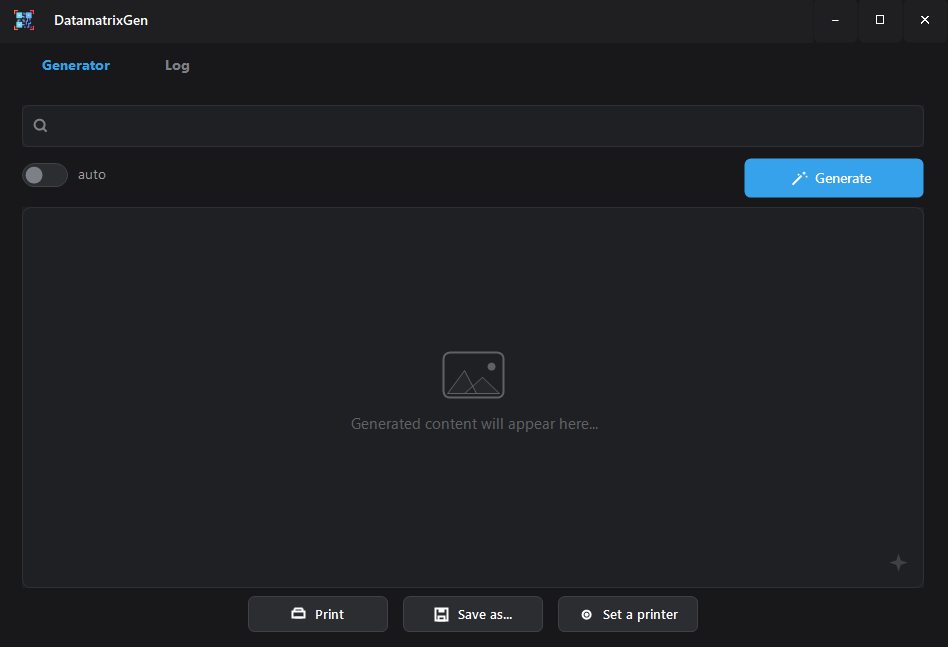
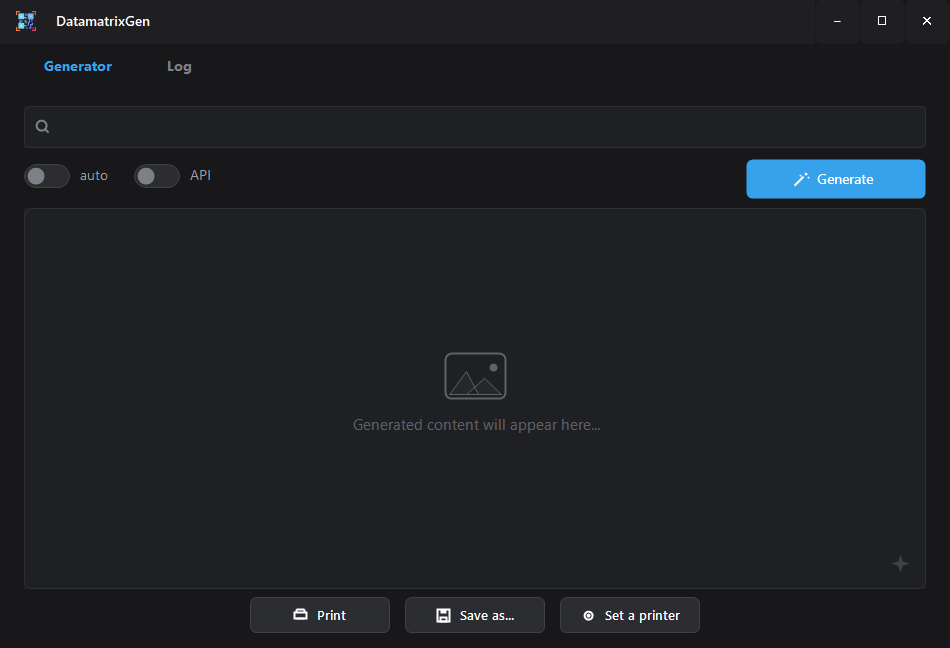
Add files via upload

diff --git a/app.cs b/app.cs
@@ -539,10 +539,60 @@ namespace DataMatrixGenerator
             this.BackColor = Color.FromArgb(0x0A, 0x0B, 0x0D);
             this.ForeColor = Color.FromArgb(0xD0, 0xD2, 0xD6);
             this.logs = new List<LogEntry>();
-            this.DrawMode = DrawMode.OwnerDrawFixed;
+            this.DrawMode = DrawMode.OwnerDrawVariable;
             this.ItemHeight = 24;
             this.BorderStyle = BorderStyle.None;
             this.IntegralHeight = false;
+            this.SelectionMode = SelectionMode.MultiExtended;
+            this.KeyDown += LogConsole_KeyDown;
+            this.MeasureItem += LogConsole_MeasureItem;
+        }
+
+        private void LogConsole_MeasureItem(object sender, MeasureItemEventArgs e)
+        {
+            if (e.Index < 0 || e.Index >= Items.Count) { e.ItemHeight = 24; return; }
+            LogEntry entry = Items[e.Index] as LogEntry;
+            if (entry == null) { e.ItemHeight = 24; return; }
+
+            using (Font font = new Font("Segoe UI Semibold", 10.5F))
+            using (Graphics g = CreateGraphics())
+            {
+                string ts = string.Format("[{0:yyyy-MM-dd HH:mm:ss.fff}] ", entry.Timestamp);
+                string lvl = string.Format("[{0}] ", entry.Level);
+                float tsW = g.MeasureString(ts, font).Width;
+                float lvlW = g.MeasureString(lvl, font).Width;
+                float maxW = Width - 16 - tsW - lvlW;
+                if (maxW < 50) maxW = 50;
+                SizeF sz = g.MeasureString(entry.Message, font, (int)maxW);
+                e.ItemHeight = Math.Max(24, (int)sz.Height + 4);
+            }
+        }
+
+        private void LogConsole_KeyDown(object sender, KeyEventArgs e)
+        {
+            if (e.Control && e.KeyCode == Keys.C)
+            {
+                var sb = new System.Text.StringBuilder();
+                foreach (int i in SelectedIndices)
+                {
+                    if (i >= 0 && i < Items.Count)
+                    {
+                        LogEntry entry = Items[i] as LogEntry;
+                        if (entry != null)
+                            sb.AppendFormat("[{0:yyyy-MM-dd HH:mm:ss.fff}] [{1}] {2}\r\n", entry.Timestamp, entry.Level, entry.Message);
+                    }
+                }
+                if (sb.Length > 0)
+                    Clipboard.SetText(sb.ToString().TrimEnd());
+                e.SuppressKeyPress = true;
+                e.Handled = true;
+            }
+            else if (e.Control && e.KeyCode == Keys.A)
+            {
+                for (int i = 0; i < Items.Count; i++) SetSelected(i, true);
+                e.SuppressKeyPress = true;
+                e.Handled = true;
+            }
         }
 
         public void ScrollToBottom()
@@ -590,7 +640,12 @@ namespace DataMatrixGenerator
                 using (Brush b = new SolidBrush(lvlColor))
                     g.DrawString(lvl, font, b, 8 + tsW, y);
                 using (Brush b = new SolidBrush(Color.FromArgb(0xD0, 0xD2, 0xD6)))
-                    g.DrawString(entry.Message, font, b, 8 + tsW + lvlW, y);
+                {
+                    float maxW = Width - 16 - tsW - lvlW;
+                    if (maxW < 50) maxW = 50;
+                    RectangleF rc = new RectangleF(8 + tsW + lvlW, y, maxW, e.Bounds.Height - 2);
+                    g.DrawString(entry.Message, font, b, rc);
+                }
             }
 
             e.DrawFocusRectangle();
@@ -617,6 +672,8 @@ namespace DataMatrixGenerator
         private CustomTextBox txtDataInput;
         private ToggleSwitch toggleAuto;
         private Label lblAuto;
+        private ToggleSwitch toggleApi;
+        private Label lblApi;
         private CustomButton btnGenerate;
         private PreviewPanel pbPreview;
         private CustomButton btnPrint;
@@ -636,6 +693,8 @@ namespace DataMatrixGenerator
         private int resizeDir;
         private Point resizeStart;
         private Rectangle formStart;
+        private string productName = "";
+        private Label lblProductInfo;
 
         public MainForm()
         {
@@ -941,6 +1000,14 @@ namespace DataMatrixGenerator
                 AutoSize = true
             };
 
+            toggleApi = new ToggleSwitch();
+            lblApi = new Label {
+                Text = "API",
+                ForeColor = Color.FromArgb(0x9E, 0x9E, 0x9E),
+                Font = new Font("Segoe UI", 10.5F),
+                AutoSize = true
+            };
+
             btnGenerate = new CustomButton {
                 Text = "Generate",
                 IconType = ButtonIconType.Wand,
@@ -950,6 +1017,15 @@ namespace DataMatrixGenerator
                 Font = new Font("Segoe UI Semibold", 10.5F)
             };
             btnGenerate.Click += (s, e) => ExecuteGeneration();
+
+            lblProductInfo = new Label {
+                Text = "",
+                ForeColor = Color.FromArgb(0x9E, 0x9E, 0x9E),
+                Font = new Font("Segoe UI", 9.5F, FontStyle.Bold),
+                AutoSize = true,
+                Visible = false
+            };
+            panelGenerate.Controls.Add(lblProductInfo);
 
             pbPreview = new PreviewPanel();
 
@@ -965,6 +1041,8 @@ namespace DataMatrixGenerator
             panelGenerate.Controls.Add(txtDataInput);
             panelGenerate.Controls.Add(toggleAuto);
             panelGenerate.Controls.Add(lblAuto);
+            panelGenerate.Controls.Add(toggleApi);
+            panelGenerate.Controls.Add(lblApi);
             panelGenerate.Controls.Add(btnGenerate);
             panelGenerate.Controls.Add(pbPreview);
             panelGenerate.Controls.Add(btnPrint);
@@ -1043,11 +1121,21 @@ namespace DataMatrixGenerator
             int rowY = 78;
             toggleAuto.Location = new Point(mx, rowY);
             lblAuto.Location = new Point(mx + 52, rowY + 1);
+            toggleApi.Location = new Point(mx + 110, rowY);
+            lblApi.Location = new Point(mx + 162, rowY + 1);
             btnGenerate.Location = new Point(cw - 180 + mx, rowY - 5);
             btnGenerate.Size = new Size(180, 40);
 
+            // Product info label
+            int infoY = rowY + 44;
+            if (lblProductInfo.Visible)
+            {
+                lblProductInfo.Location = new Point(mx, infoY);
+                infoY += lblProductInfo.Height + 4;
+            }
+
             // Preview
-            int previewY = rowY + 44;
+            int previewY = infoY;
             int footerH = 52;
             int previewH = contentH - previewY - footerH - 8;
             if (previewH < 100) previewH = 100;
@@ -1232,6 +1320,69 @@ namespace DataMatrixGenerator
             return input;
         }
 
+        private void FetchProductInfo(string data)
+        {
+            try
+            {
+                // Escape control characters for valid JSON  
+                string safeData = data.Replace("\\", "\\\\").Replace("\"", "\\\"")
+                    .Replace("\u001D", "\\u001d");
+                string jsonBody = "{\"code\":\"" + safeData + "\"}";
+                Log("INFO", "API request: " + jsonBody);
+
+                // Write JSON to temp file and call curl (most reliable)
+                string tmpFile = System.IO.Path.GetTempFileName();
+                System.IO.File.WriteAllText(tmpFile, jsonBody, System.Text.Encoding.UTF8);
+                var psi = new System.Diagnostics.ProcessStartInfo("curl.exe",
+                    "-s -X POST https://mobile.api.crpt.ru/mobile/check -H \"Content-Type: application/json\" -d @" + tmpFile);
+                psi.RedirectStandardOutput = true;
+                psi.UseShellExecute = false;
+                psi.CreateNoWindow = true;
+                psi.StandardOutputEncoding = System.Text.Encoding.UTF8;
+                var proc = System.Diagnostics.Process.Start(psi);
+                string response = proc.StandardOutput.ReadToEnd();
+                proc.WaitForExit(10000);
+                System.IO.File.Delete(tmpFile);
+
+                if (string.IsNullOrEmpty(response)) { Log("ERROR", "API: empty response"); return; }
+                Log("INFO", "API response: " + response);
+
+                // Extract productName from JSON (handles escaped quotes)
+                string search = "\"productName\":\"";
+                int idx = response.IndexOf(search);
+                if (idx >= 0)
+                {
+                    idx += search.Length;
+                    var sb = new System.Text.StringBuilder();
+                    while (idx < response.Length)
+                    {
+                        if (response[idx] == '\\' && idx + 1 < response.Length && response[idx + 1] == '"')
+                        {
+                            sb.Append('"');
+                            idx += 2;
+                        }
+                        else if (response[idx] == '"')
+                        {
+                            break;
+                        }
+                        else
+                        {
+                            sb.Append(response[idx]);
+                            idx++;
+                        }
+                    }
+                    productName = sb.ToString();
+                    lblProductInfo.Text = productName;
+                    lblProductInfo.Visible = true;
+                    PerformCustomLayout();
+                }
+            }
+            catch (Exception ex)
+            {
+                Log("ERROR", "API error: " + ex.Message);
+            }
+        }
+
         private void ExecuteGeneration()
         {
             string inputText = txtDataInput.Text.Trim();
@@ -1293,6 +1444,9 @@ namespace DataMatrixGenerator
 
                     Log("INFO", string.Format("Code: \"{0}\" | File: data\\{1}", inputText, last10 + ".png"));
 
+                    // Fetch product info from CRPT API (if enabled)
+                    if (toggleApi.Checked) FetchProductInfo(encodeData);
+
                     if (toggleAuto.Checked)
                     {
                         Log("INFO", "Auto-mode triggered printing.");
@@ -1331,23 +1485,36 @@ namespace DataMatrixGenerator
                 }
 
                 pd.PrintPage += (sender, args) => {
-                    // Center and scale image keeping aspect ratio
+                    Graphics g = args.Graphics;
                     float pageW = args.PageBounds.Width;
                     float pageH = args.PageBounds.Height;
+                    float yOff = 0;
 
+                    // Print product name if available
+                    if (!string.IsNullOrEmpty(productName))
+                    {
+                        using (Font pf = new Font("Segoe UI", 10, FontStyle.Bold))
+                        {
+                            string text = "Product: " + productName;
+                            SizeF sz = g.MeasureString(text, pf);
+                            float tx = (pageW - sz.Width) / 2f;
+                            g.DrawString(text, pf, Brushes.Black, tx, 20);
+                            yOff = sz.Height + 30;
+                        }
+                    }
+
+                    // Center and scale image keeping aspect ratio
                     float imgW = img.Width;
                     float imgH = img.Height;
-
-                    float ratio = Math.Min(pageW / imgW, pageH / imgH) * 0.8f; // Margin
-
+                    float availH = pageH - yOff - 10;
+                    float ratio = Math.Min(pageW / imgW, availH / imgH) * 0.8f;
                     float drawW = imgW * ratio;
                     float drawH = imgH * ratio;
-
                     float x = (pageW - drawW) / 2f;
-                    float y = (pageH - drawH) / 2f;
+                    float y = yOff + (availH - drawH) / 2f;
 
-                    args.Graphics.InterpolationMode = InterpolationMode.HighQualityBicubic;
-                    args.Graphics.DrawImage(img, x, y, drawW, drawH);
+                    g.InterpolationMode = InterpolationMode.HighQualityBicubic;
+                    g.DrawImage(img, x, y, drawW, drawH);
                 };
 
                 pd.Print();

diff --git a/README.md b/README.md
@@ -1,6 +1,6 @@
 # DataMatrix Generator
 
-Портативная программа для дублирования, генерации, и печати этикеток системы маркировки «Честный знак» (Chestny Znak).
+Портативная программа для генерации, предпросмотра и печати **GS1 DataMatrix** этикеток системы маркировки «Честный знак» (Chestny Znak).
 
 ## Возможности
 
@@ -9,15 +9,11 @@
 - ✅ Печать через системный диалог Windows
 - ✅ Экспорт в PNG
 - ✅ Авто-режим (скан → генерация → печать в один клик)
-- ✅ Логирование с поиском по коду
-- ✅ Поддержка 3 форматов ввода: со скобками `(01)`, raw GS1, с GS-разделителями
+- ✅ Запрос названия товара через CRPT API (вкл/выкл)
+- ✅ Логирование с поиском, мультивыделением, Ctrl+C/Ctrl+A
+- ✅ Перенос строк в логах (длинные строки не обрезаются)
 - ✅ Тёмная тема, кастомный заголовок, ресайз окна
 - ✅ Не требует установки — работает на Windows 7–11
-
-## Скриншоты
-
-![Generator tab](Screenshots/1.png)
-![Log tab](Screenshots/2.png)
 
 ## Технологии
 
@@ -38,6 +34,11 @@ csc -win32icon:"app.ico" ^
     -out:"DataMatrixGen.exe" ^
     "app.cs"
 ```
+
+## Скриншоты
+
+![Generator tab](Screenshots/1.png)
+![Log tab](Screenshots/2.png)
 
 ## Структура кода GS1 DataMatrix
 
@@ -62,6 +63,15 @@ csc -win32icon:"app.ico" ^
 | Со скобками | `(01)0465...(21)5ZGN...(91)EE12(92)1cdP+...` |
 | Без скобок | `010465...215ZGN...91EE12...92...` |
 | С GS-разделителями | `010465...\u001D91EE12\u001D92...` |
+
+## API Честного знака
+
+При включённом тумблере `API` программа отправляет запрос к `https://mobile.api.crpt.ru/mobile/check` и получает название товара. Название отображается над DataMatrix в предпросмотре и печатается сверху этикетки.
+
+## Интерфейс
+
+- **Generator** — поле ввода кода, тумблеры auto/API, кнопка Generate, область предпросмотра, кнопки Print… / Save as… / Set printer
+- **Log** — поиск по коду, цветовая маркировка уровней (`INFO`/`WARN`/`ERROR`/`PREV`), мультивыделение, Ctrl+C / Ctrl+A
 
 ## Лицензия
 